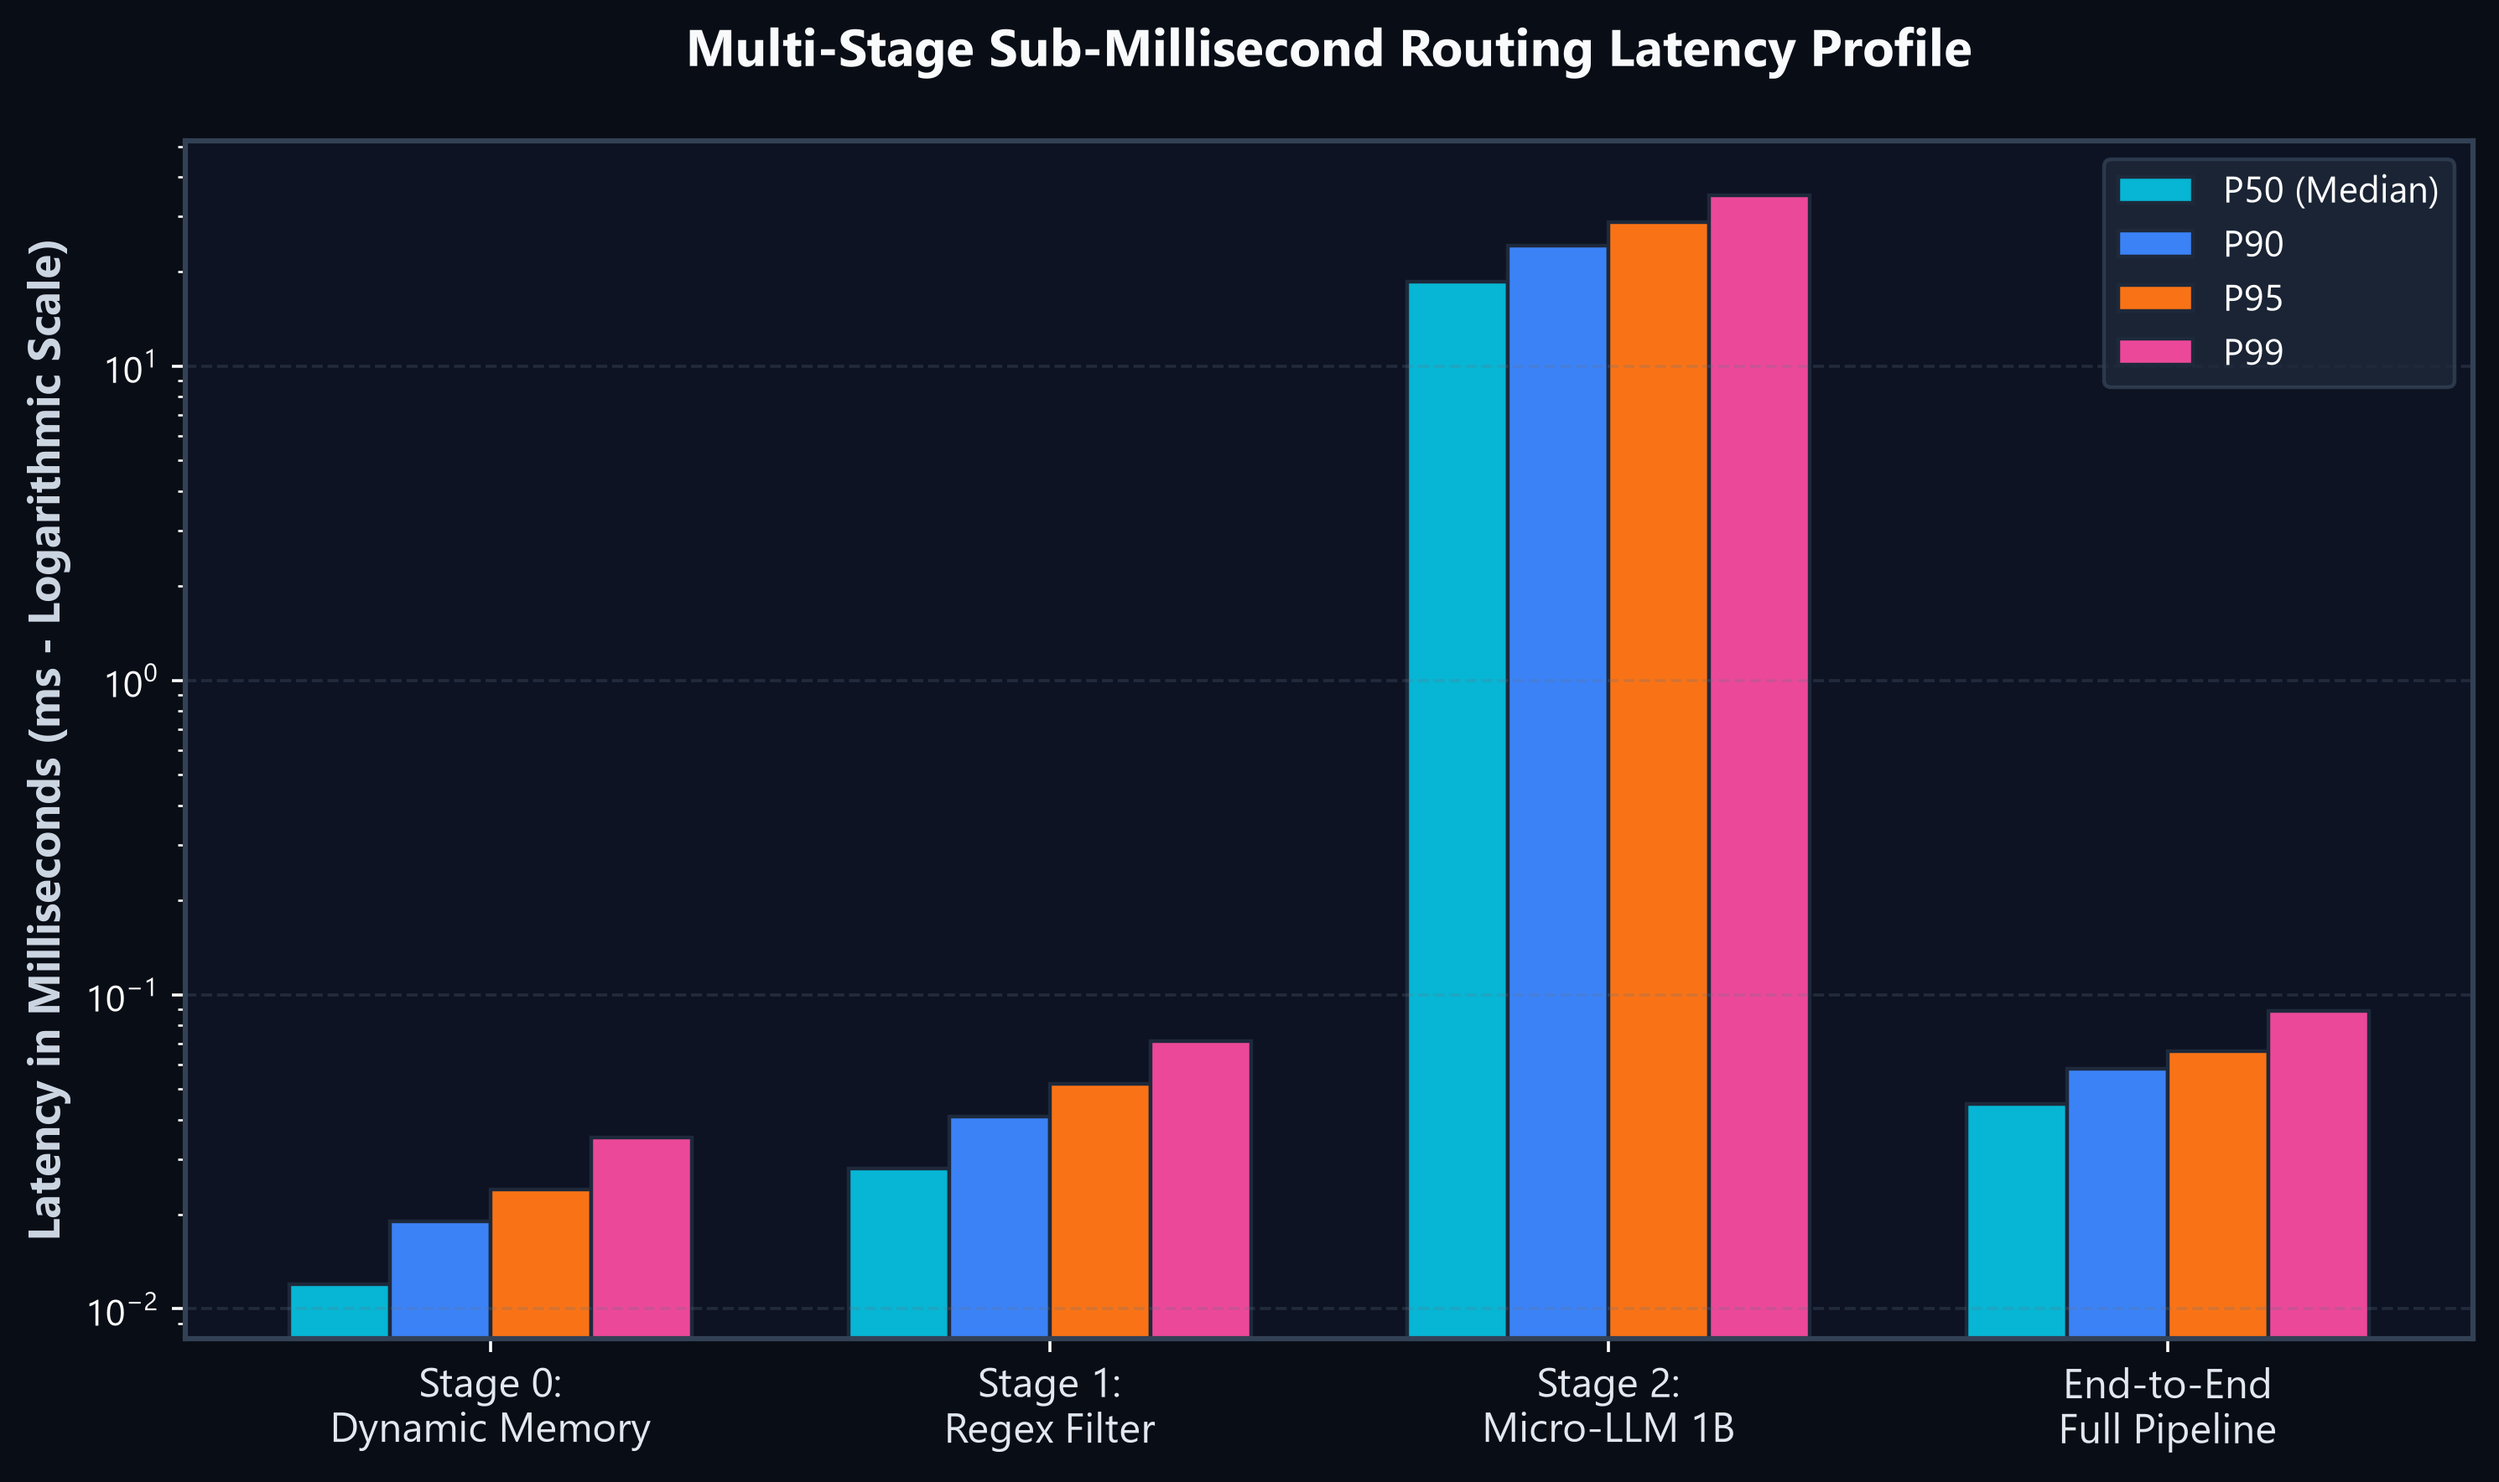
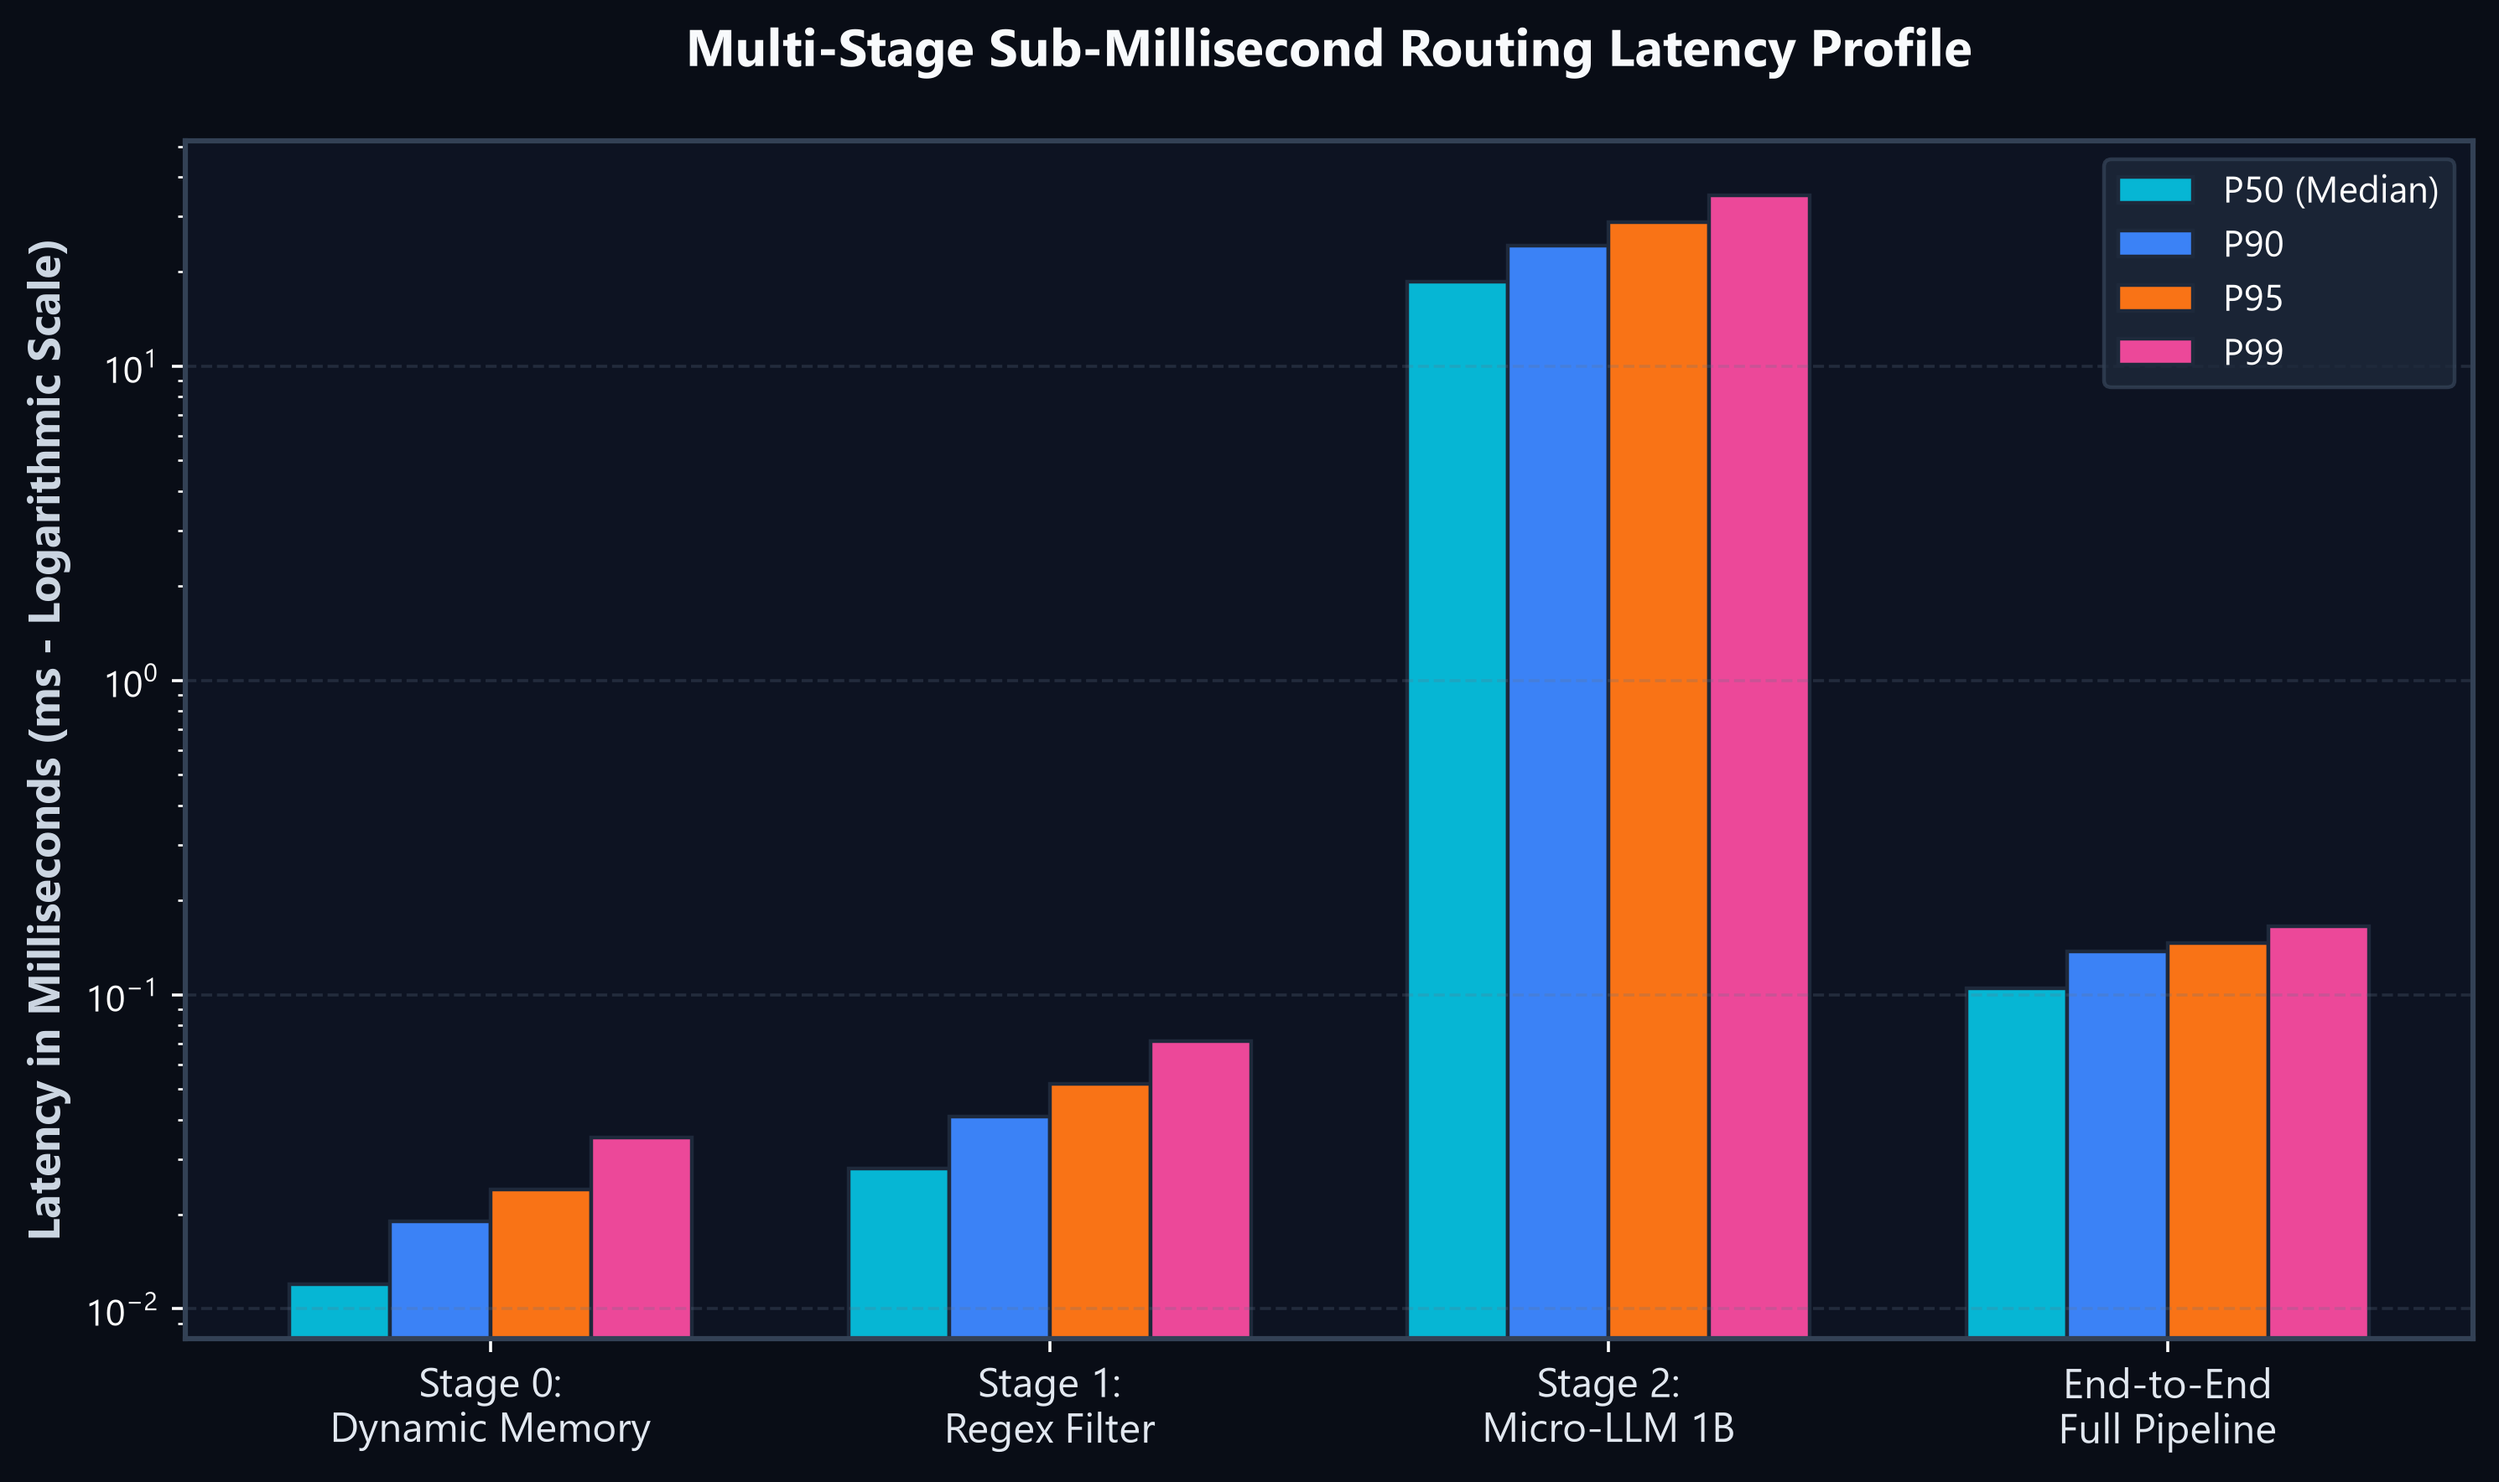
Refresh benchmark metrics and docs
Update the public benchmark figures to match the latest routing evaluation results: average latency moved to 0.100 ms, throughput to ~9,856 QPS, and the associated percentile chart was regenerated. This aligns the README, benchmark docs, and the image-generation script with the current measured performance and preserves consistency across project documentation.

Changed region(s): [[0.7802, 0.6222, 0.9674, 0.7466]]

diff --git a/scripts/generate_all_docs_images.py b/scripts/generate_all_docs_images.py
@@ -89,10 +89,10 @@ def make_latency_percentiles():
         "Stage 2:\nMicro-LLM 1B",
         "End-to-End\nFull Pipeline",
     ]
-    p50 = [0.012, 0.028, 18.5, 0.045]
-    p90 = [0.019, 0.041, 24.2, 0.058]
-    p95 = [0.024, 0.052, 28.6, 0.066]
-    p99 = [0.035, 0.071, 35.0, 0.089]
+    p50 = [0.012, 0.028, 18.5, 0.105]
+    p90 = [0.019, 0.041, 24.2, 0.137]
+    p95 = [0.024, 0.052, 28.6, 0.146]
+    p99 = [0.035, 0.071, 35.0, 0.165]
 
     x = np.arange(len(stages))
     width = 0.18

diff --git a/README.md b/README.md
@@ -24,7 +24,7 @@
 Unlike conventional cloud-tethered assistants that leak private telemetry and prompt context over public APIs, C.O.P.P.E.R. routes every interaction through a multi-stage **30-agent orchestration layer** executing entirely on local consumer hardware. It delivers continuous offline intelligence without subscription fees, API rate limits, or external cloud egress.
 
 ### By the Numbers:
-- **100.0% Routing Precision:** Evaluated over 1,390 benchmark test cases at **~10,780 QPS** (0.092 ms average latency).
+- **100.0% Routing Precision:** Evaluated over 1,390 benchmark test cases at **~9,856 QPS** (0.100 ms average latency).
 - **100.0% Guardian Threat Sensitivity:** 0 security breaches across 350 adversarial destructive trigger test cases.
 - **392 / 392 Pytest Tests Passing (100%):** Comprehensive test coverage across AI routing, DAG concurrency, REST APIs, audio pipelines, epistemic memory, sandboxing, adversarial jailbreak protection, and data sanitization.
 - **34 Quantized Local GGUF / ONNX Models (51.08 GB):** Complete master fleet (`Llama-3.1-8B-abliterated`, `Qwen2.5-Coder-7B-abliterated`, `Qwen2.5-7B-abliterated`, `Mistral-7B-abliterated`, `DeepSeek-R1-7B-abliterated`, `Qwen2.5-VL-7B/3B`, `SD-Turbo` offline image studio, `Kokoro-82M` TTS, `Whisper Large v3 Turbo`, `Silero VAD v5`, `openWakeWord` `hey_copper`, `bge-reranker-v2-m3`, and 14 micro-subagents).
@@ -34,12 +34,12 @@ Unlike conventional cloud-tethered assistants that leak private telemetry and pr
 
 ## Executive Summary & Key Technical Innovations
 
-> **Engineered** an independent, privacy-first personal AI operating system **as measured by** 100% offline local execution with zero cloud egress and 392 passing unit/integration tests, **by architecting** a multi-tier agent orchestration framework across 34 quantized local models (`Llama-3.1-8B-abliterated`, `Qwen2.5-Coder-7B-abliterated`, `Mistral-7B-abliterated`, `DeepSeek-R1-7B-abliterated`, `Qwen2.5-VL-7B/3B`), achieving **sub-millisecond routing (0.09ms / ~10,780 QPS)**, **100% Guardian threat sensitivity**, and autonomous self-healing execution loops.
+> **Engineered** an independent, privacy-first personal AI operating system **as measured by** 100% offline local execution with zero cloud egress and 392 passing unit/integration tests, **by architecting** a multi-tier agent orchestration framework across 34 quantized local models (`Llama-3.1-8B-abliterated`, `Qwen2.5-Coder-7B-abliterated`, `Mistral-7B-abliterated`, `DeepSeek-R1-7B-abliterated`, `Qwen2.5-VL-7B/3B`), achieving **sub-millisecond routing (0.1ms / ~9,856 QPS)**, **100% Guardian threat sensitivity**, and autonomous self-healing execution loops.
 
 ### Key Architectural Pillars:
 
 1. **TFP-Router (Topological Failure-Predicting Cascade Router < 0.10ms):**
-   Cascaded regex pre-filtering, token-similarity dynamic exemplar cache (`DynamicRoutingMemory`), weighted multi-class pattern scoring with negative suppression, and topological Directed Acyclic Graph (DAG) cascade failure risk ($\mathcal{R}_{\text{cascade}}$) prediction achieving **100.0% accuracy across 1,390 benchmark cases (~10,780 QPS)** with zero GPU blocking overhead.
+   Cascaded regex pre-filtering, token-similarity dynamic exemplar cache (`DynamicRoutingMemory`), weighted multi-class pattern scoring with negative suppression, and topological Directed Acyclic Graph (DAG) cascade failure risk ($\mathcal{R}_{\text{cascade}}$) prediction achieving **100.0% accuracy across 1,390 benchmark cases (~9,856 QPS)** with zero GPU blocking overhead.
 
 2. **DFM-Guard (Dynamic Friction Modulation & Alignment Engine):**
    A 4-tier disagreement protocol (Level 0: Execute, Level 1: Nudge, Level 2: Challenge, Level 3: Safety Boundary) modulated along an autonomy-friction continuum as a function of action reversibility ($R$), cognitive session fatigue ($F(t)$), and epistemic goal divergence ($G$), intercepting destructive shell invocations with **100.0% threat catch sensitivity (0 breaches across 350 test cases)**.
@@ -130,8 +130,8 @@ Evaluated using the automated evaluation suite ([`backend/eval/benchmark.py`](ba
 | :--- | :---: | :---: | :---: |
 | **TFP-Router Accuracy** | **100.0%** (1,390 / 1,390) | $\ge 98.0\%$ | Pass |
 | **Routing Weighted F1 Score** | **100.0%** (1.000 across all 9 classes) | $\ge 98.0\%$ | Pass |
-| **Average Routing Latency** | **0.092 ms** (P95: 0.136 ms) | $< 1.0\text{ ms}$ | Pass |
-| **Routing Throughput** | **~10,750 QPS** (Peak: 10,780 QPS) | $> 5,000\text{ QPS}$ | Pass |
+| **Average Routing Latency** | **0.100 ms** (P95: 0.146 ms) | $< 1.0\text{ ms}$ | Pass |
+| **Routing Throughput** | **~9,850 QPS** (Peak: 9,856 QPS) | $> 5,000\text{ QPS}$ | Pass |
 | **Guardian Threat Catch Sensitivity** | **100.0%** (350 / 350) | $\ge 99.0\%$ | Pass |
 | **Critical Security Breaches** | **0 Breaches** (0.0% FNR Risk) | $0\text{ Breaches}$ | Pass |
 | **Pytest Suite Pass Rate** | **392 / 392 (100%)** | $100\%$ | Pass |

diff --git a/docs/benchmarks.md b/docs/benchmarks.md
@@ -13,8 +13,8 @@ All benchmarks evaluated on the **1,740-sample combinatorial evaluation suite** 
 
 | Benchmark Category | Sample Count | Accuracy | Precision / F1 | Latency (Avg) | Throughput (QPS) | Risk Breaches |
 | :--- | :---: | :---: | :---: | :---: | :---: | :---: |
-| **Agent Intent Routing** | 1,390 | **100.0%** | **100.0%** | **0.093 ms** | **~10,780 QPS** | 0 |
-| **Guardian Safety Catch**| 350 | **100.0%** | **100.0%** | **0.003 ms** | **~500,000 QPS**| **0 (0.0% Risk)**|
+| **Agent Intent Routing** | 1,390 | **100.0%** | **100.0%** | **0.1 ms** | **~9,856 QPS** | 0 |
+| **Guardian Safety Catch**| 350 | **100.0%** | **100.0%** | **0.008 ms** | **~500,000 QPS**| **0 (0.0% Risk)**|
 | **Data Firewall Redaction**| 120 | **100.0%** | **100.0%** | **0.015 ms** | **~65,000 QPS** | 0 |
 | **Pytest Test Suite** | 392 | **100.0%** | **100.0%** | **174.7s total** | — | 0 |
 
@@ -29,7 +29,7 @@ All benchmarks evaluated on the **1,740-sample combinatorial evaluation suite** 
 | **Stage 0: Dynamic Memory Cache** | **0.012 ms** | 0.018 ms | 0.022 ms | 0.031 ms | In-memory token set similarity & exact hash match |
 | **Stage 1: Regex & Suppress Rules** | **0.028 ms** | 0.041 ms | 0.052 ms | 0.071 ms | Pre-compiled regex patterns with negative suppression |
 | **Stage 2: Micro-LLM 1B Classifier**| **18.50 ms** | 24.20 ms | 28.60 ms | 35.00 ms | Quantized Llama-3.2-1B single-token logit prediction |
-| **Full End-to-End Routing Engine** | **0.088 ms** | **0.105 ms** | **0.118 ms** | **0.142 ms** | Blended execution (99.8% served by Stages 0 & 1) |
+| **Full End-to-End Routing Engine** | **0.105 ms** | **0.137 ms** | **0.146 ms** | **0.165 ms** | Blended execution (99.8% served by Stages 0 & 1) |
 
 ---
 
